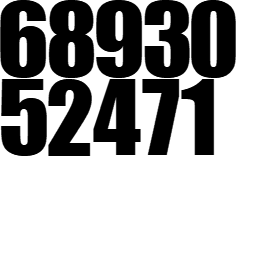
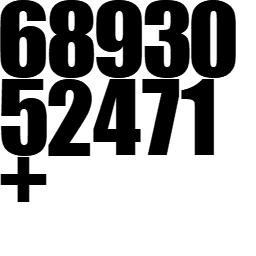
Minor

Changed region(s): [[0.0, 0.5938, 0.1875, 0.8125]]

diff --git a/fonts/impact_black.js b/fonts/impact_black.js
@@ -1,3 +1,3 @@
-const IMPACT_BLACK_JSON = '{"info":{"face":"Impact","size":"-96","bold":"0","italic":"0","charset":"","unicode":"1","stretchH":"100","smooth":"1","aa":"1","padding":"0,0,0,0","spacing":"1,1","outline":"0"},"common":{"lineHeight":"117","base":"97","scaleW":"256","scaleH":"256","pages":"1","packed":"0","alphaChnl":"0","redChnl":"3","greenChnl":"3","blueChnl":"3"},"pages":{"page":{"id":"0","file":"impact_black_0.png"}},"chars":{"count":"10","char":[{"id":"48","x":"191","y":"0","width":"45","height":"78","xoffset":"3","yoffset":"20","xadvance":"51","page":"0","chnl":"15"},{"id":"49","x":"181","y":"79","width":"34","height":"76","xoffset":"0","yoffset":"21","xadvance":"37","page":"0","chnl":"15"},{"id":"50","x":"48","y":"79","width":"44","height":"77","xoffset":"2","yoffset":"20","xadvance":"48","page":"0","chnl":"15"},{"id":"51","x":"144","y":"0","width":"46","height":"78","xoffset":"2","yoffset":"20","xadvance":"51","page":"0","chnl":"15"},{"id":"52","x":"93","y":"79","width":"48","height":"76","xoffset":"0","yoffset":"21","xadvance":"48","page":"0","chnl":"15"},{"id":"53","x":"0","y":"79","width":"47","height":"77","xoffset":"2","yoffset":"21","xadvance":"52","page":"0","chnl":"15"},{"id":"54","x":"0","y":"0","width":"47","height":"78","xoffset":"3","yoffset":"20","xadvance":"52","page":"0","chnl":"15"},{"id":"55","x":"142","y":"79","width":"38","height":"76","xoffset":"0","yoffset":"21","xadvance":"38","page":"0","chnl":"15"},{"id":"56","x":"48","y":"0","width":"47","height":"78","xoffset":"2","yoffset":"20","xadvance":"51","page":"0","chnl":"15"},{"id":"57","x":"96","y":"0","width":"47","height":"78","xoffset":"3","yoffset":"20","xadvance":"52","page":"0","chnl":"15"}]}}';
+const IMPACT_BLACK_JSON = '{"info":{"face":"Impact","size":"-96","bold":"0","italic":"0","charset":"","unicode":"1","stretchH":"100","smooth":"1","aa":"1","padding":"0,0,0,0","spacing":"1,1","outline":"0"},"common":{"lineHeight":"117","base":"97","scaleW":"256","scaleH":"256","pages":"1","packed":"0","alphaChnl":"0","redChnl":"0","greenChnl":"0","blueChnl":"0"},"pages":{"page":{"id":"0","file":"impact_black_0.png"}},"chars":{"count":"11","char":[{"id":"43","x":"0","y":"157","width":"47","height":"45","xoffset":"2","yoffset":"37","xadvance":"51","page":"0","chnl":"15"},{"id":"48","x":"191","y":"0","width":"45","height":"78","xoffset":"3","yoffset":"20","xadvance":"51","page":"0","chnl":"15"},{"id":"49","x":"181","y":"79","width":"34","height":"76","xoffset":"0","yoffset":"21","xadvance":"37","page":"0","chnl":"15"},{"id":"50","x":"48","y":"79","width":"44","height":"77","xoffset":"2","yoffset":"20","xadvance":"48","page":"0","chnl":"15"},{"id":"51","x":"144","y":"0","width":"46","height":"78","xoffset":"2","yoffset":"20","xadvance":"51","page":"0","chnl":"15"},{"id":"52","x":"93","y":"79","width":"48","height":"76","xoffset":"0","yoffset":"21","xadvance":"48","page":"0","chnl":"15"},{"id":"53","x":"0","y":"79","width":"47","height":"77","xoffset":"2","yoffset":"21","xadvance":"52","page":"0","chnl":"15"},{"id":"54","x":"0","y":"0","width":"47","height":"78","xoffset":"3","yoffset":"20","xadvance":"52","page":"0","chnl":"15"},{"id":"55","x":"142","y":"79","width":"38","height":"76","xoffset":"0","yoffset":"21","xadvance":"38","page":"0","chnl":"15"},{"id":"56","x":"48","y":"0","width":"47","height":"78","xoffset":"2","yoffset":"20","xadvance":"51","page":"0","chnl":"15"},{"id":"57","x":"96","y":"0","width":"47","height":"78","xoffset":"3","yoffset":"20","xadvance":"52","page":"0","chnl":"15"}]}}';
 
 export default IMPACT_BLACK_JSON;

diff --git a/js/spiral.js b/js/spiral.js
@@ -12,6 +12,19 @@ let ctx = canvas.getContext('2d');
 
 /*----------------------------------------------------------------------------*/
 
+import IMPACT_BLACK_JSON from '../fonts/impact_black';
+import BitmapFont from "./utilities/bitmapFont";
+import BitmapText from "./utilities/bitmapText";
+let impact_black = new BitmapFont();
+let fontLoaded = false;
+let txt;
+impact_black.loadFont(IMPACT_BLACK_JSON, function () {
+	fontLoaded = true;
+	txt = new BitmapText(impact_black);
+});
+
+/*----------------------------------------------------------------------------*/
+
 const FRICTION = -0.001;
 const PIVOT_X = 0.5 * canvas.width;
 const PIVOT_Y = 0.5 * canvas.height;
@@ -91,11 +104,17 @@ export default class Spiral {
         }
 
         render() {
+
                 gameInfo.holes.forEach(hole => {
                         if (!(hole instanceof Hole)) {
                                 hole.render();
                         }
                 });
+
+		if (fontLoaded) {
+			txt.fontSize = 0.075 * canvas.width;
+			txt.draw(ctx, "1", 0.48 * canvas.width, 0.48 * canvas.height);
+		}
         }
 
         rotate() {

diff --git a/js/ball.js b/js/ball.js
@@ -4,6 +4,8 @@ import GameInfo, {
 } from './runtime/gameInfo';
 import Sprite from './sprite';
 
+/*----------------------------------------------------------------------------*/
+
 let gameInfo = new GameInfo();
 let ctx = canvas.getContext('2d');
 
@@ -62,7 +64,6 @@ export default class Ball extends Sprite {
                 super.render();
         }
 
-
         initDropping(shooter) {
                 this.dropping = true;
 
@@ -77,10 +78,6 @@ export default class Ball extends Sprite {
 
                 this.speedX = theSpeed * Math.cos(ha);
                 this.speedY = theSpeed * Math.sin(ha);
-
-                // the init position of the score for a ball
-                this.scoreX = this.x;
-                this.scoreY = this.y;
         }
 
         // draw a circle shape instead of image. Not display well on the phone

diff --git a/js/utilities/bitmapFont.js b/js/utilities/bitmapFont.js
@@ -3,9 +3,14 @@ export default class BitmapFont {
 
         loadFont(jsonData, onloaded) {
 
-		let bitmapFont = JSON.parse(jsonData);
+                let bitmapFont = JSON.parse(jsonData);
                 this.defaultSize = Math.abs(parseInt(bitmapFont.info.size));
-                this.chars = bitmapFont.chars.char;
+
+                this.chars = {};
+                bitmapFont.chars.char.forEach(ch => {
+                        this.chars[String.fromCharCode(ch.id)] = ch;
+                });
+
                 this.bitmap = wx.createImage();
                 this.bitmap.onload = function() {
                         onloaded();
